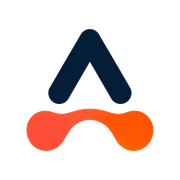
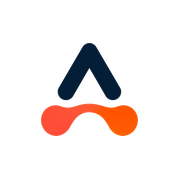
Deixa o ícone do PWA menor e com fundo branco.
O cache do service worker sobe para v4 para o celular não ficar com o ícone antigo.

Changed region(s): [[0.1389, 0.1389, 0.8611, 0.8611]]

diff --git a/public/sw.js b/public/sw.js
@@ -1,4 +1,4 @@
-const CACHE = "auttus-static-v3";
+const CACHE = "auttus-static-v4";
 
 self.addEventListener("install", (event) => {
   event.waitUntil(
